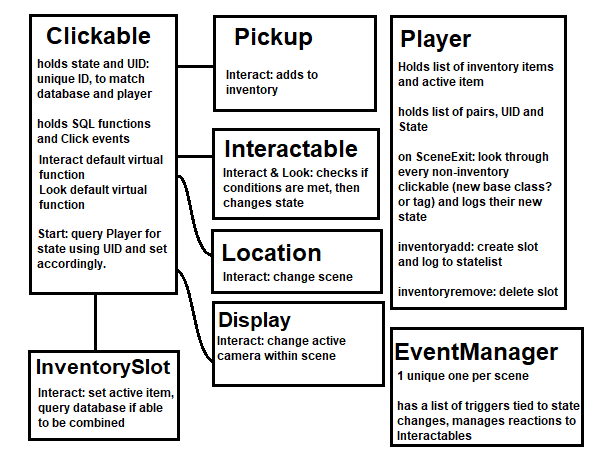
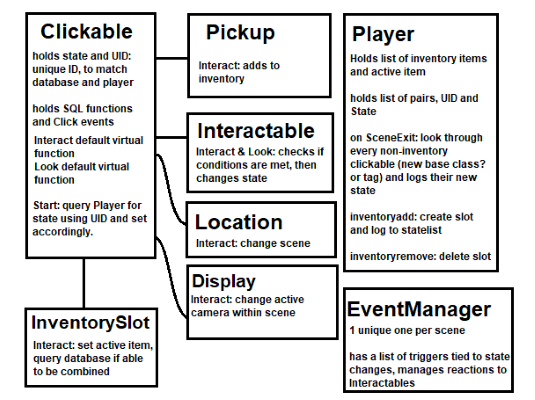
decreased size of two images

diff --git a/hookfoot.html b/hookfoot.html
@@ -53,7 +53,7 @@
 				<div class="left">
 					<div class="info">
 						<h2>Architecture Overview</h1>
-						<p>Early on in development I outlined the basic class strucutre that the game, and importantly the interactible objects would take. Firstly there is the Player, which persists through scenes, and holds a log the UID of any Clickable objects's that have been interacted with. It also is the parent of the persistent UI, and thus is the main interface to UI functions, like adding inventory items. Other classes can access those functions through a Player singleton, which also serves as letting us add other player objects to test in different scenes without having them interact with each other.</p>
+						<p>Early on in development I created an outline the basic class strucutre that the game, and importantly the interactible objects would take. Firstly there is the Player, which persists through scenes, and holds a log the UID of any Clickable objects's that have been interacted with. It also is the parent of the persistent UI, and thus is the main interface to UI functions, like adding inventory items. Other classes can access those functions through a Player singleton, which also serves as letting us add other player objects to test in different scenes without having them interact with each other.</p>
 					</div>
 				</div>
 				<div class="right">
@@ -68,7 +68,7 @@
 					</div>
 				</div>
 				<div class="right">
-					<img src="img/db_hookfoot.png">
+					<img src="img/db_hookfoot.PNG">
 				</div>
 			</div>
 			<div class="wrapper">
